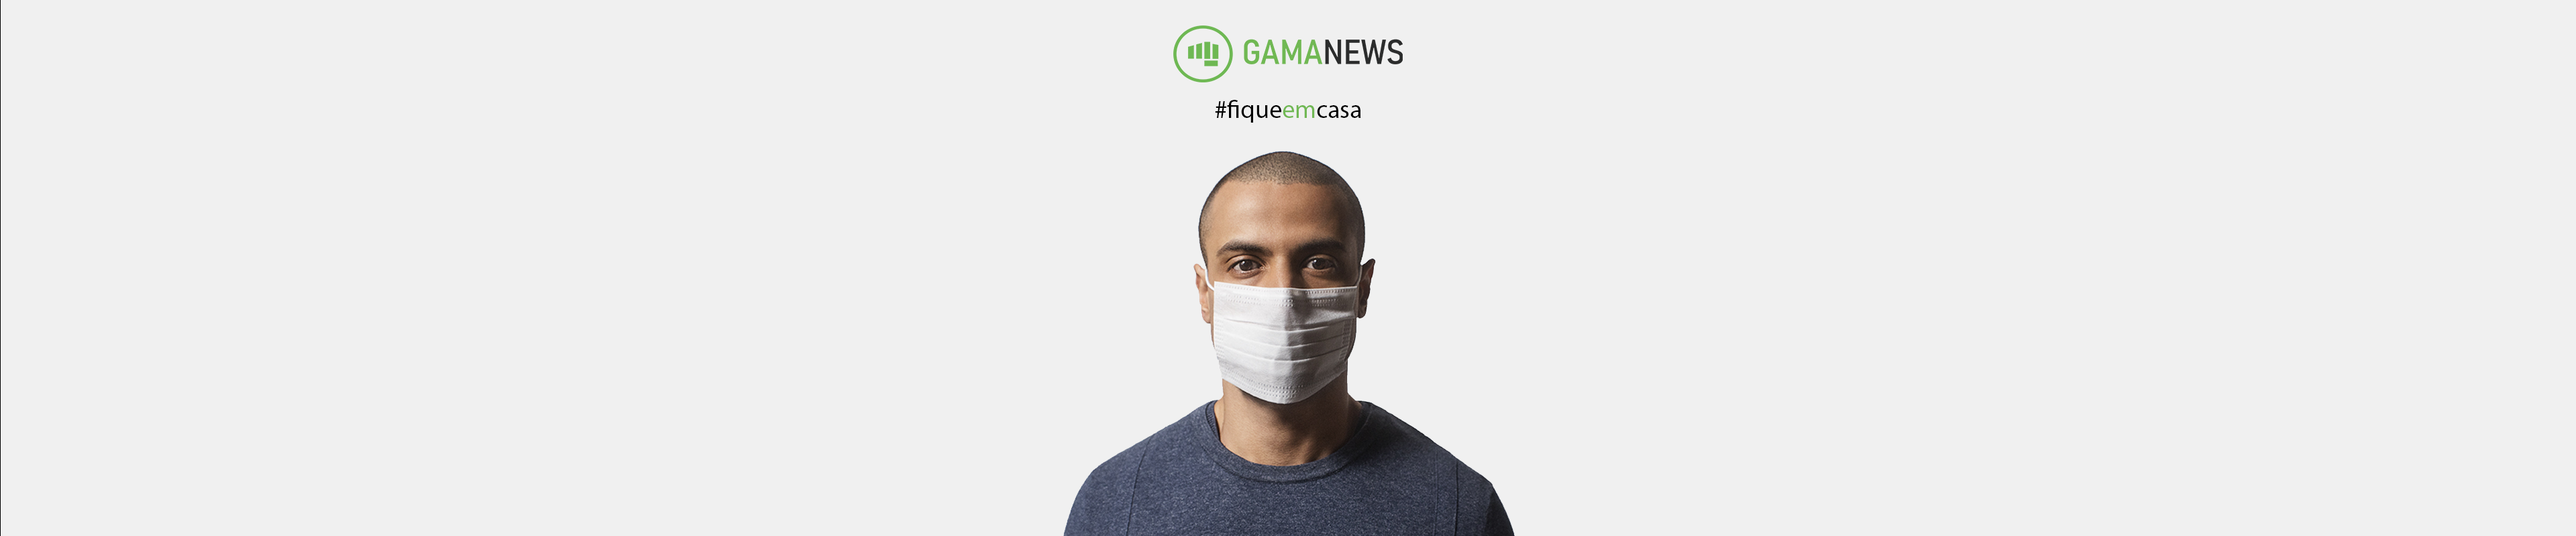
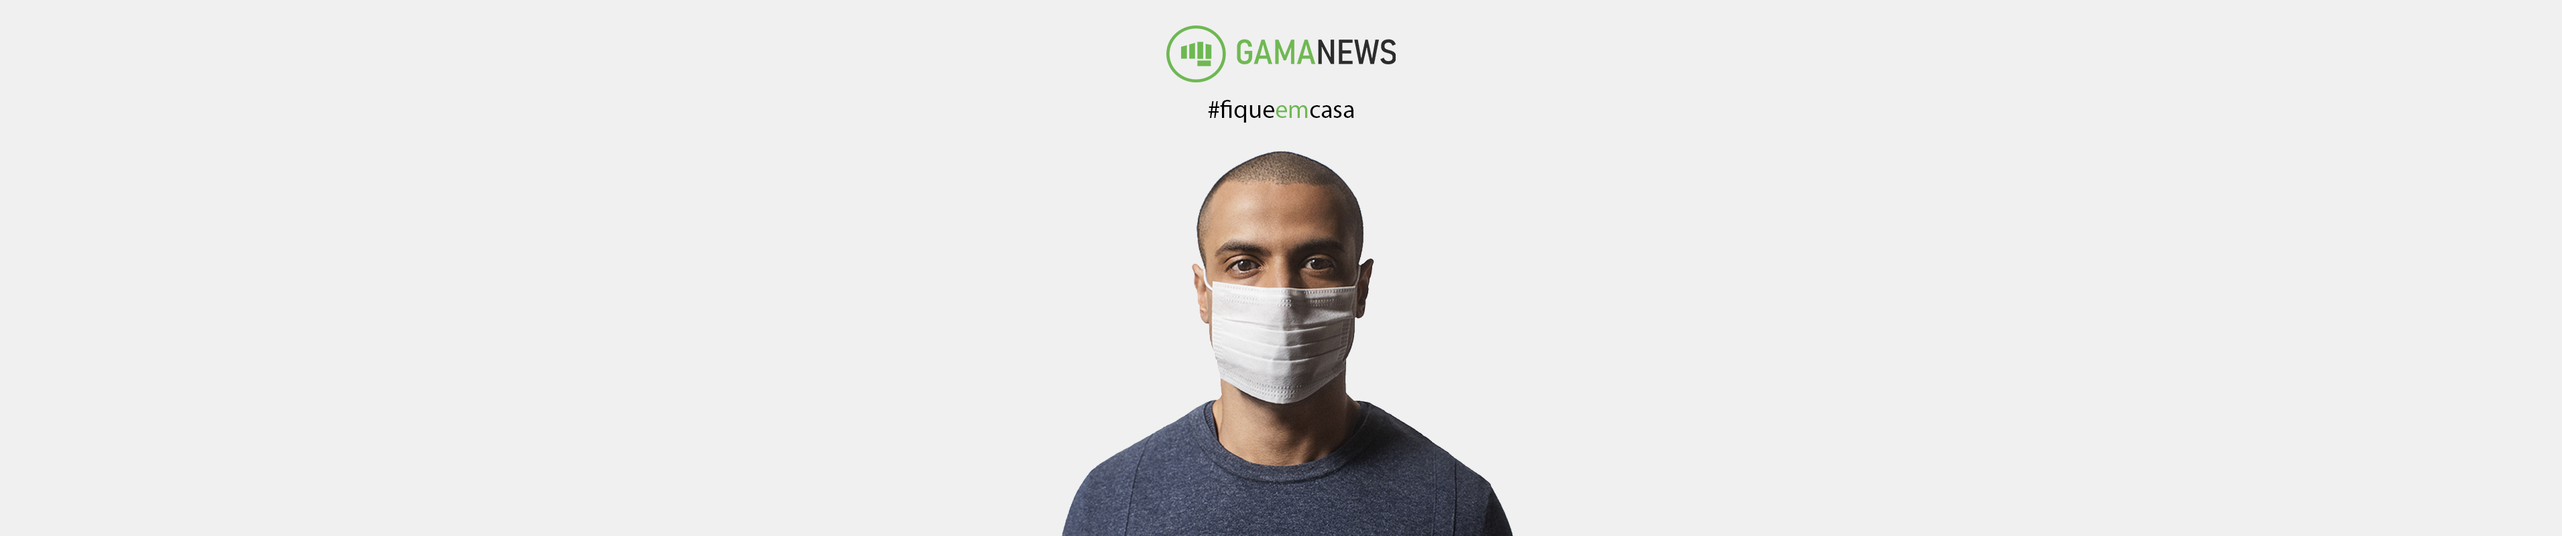
reestruturacao do site v0.9

diff --git a/assets/css/style.css b/assets/css/style.css
@@ -360,24 +360,140 @@ body {
     overflow-x: hidden;
 }
 
+body .container-main {
+    position: relative;
+    z-index: 1;
+    min-height: calc(100vh-90px);
+}
+
+.content {
+    padding-top: 90px;
+}
+
+.content {
+    min-height: calc(100vh-90px);
+}
+
 .container-main {
+    min-height: 100%;
+    width: 100%;
+}
+
+main {
+    display: block;
+}
+
+.text-black {
+    color: #1d1d1d;
+}
+
+.left-0 {
+    left: 0;
+}
+
+.top-0 {
+    top: 0;
+}
+
+.relative {
+    position: relative;
+}
+
+.bg-gama-black {
+    background-color: #1d1d1d;
+}
+
+.heroCarousel {
+    display: block;
+    width: 100%;
+    object-fit: cover;
+    left: 0;
+}
+
+.w-full {
+    width: 100%;
+}
+
+.heroCarouselElement {
+    height: calc(100vh - 90px);
+}
+
+.heroCarouselElement picture {
     display: flex;
     justify-content: center;
-    align-items: center;
-    margin-top: 90px;
+    height: inherit;
+    z-index: 5;
+    object-fit: cover;
+}
+
+.w-screen {
+    width: 100vw;
+}
+
+.absolute {
+    position: absolute;
+}
+
+.overflow-hidden {
+    overflow: hidden;
+}
+
+.py-16 {
+    padding-top: 4rem;
+    padding-bottom: 4rem;
+}
+
+.mx-auto {
+    margin-left: auto;
+    margin-right: auto;
+}
+
+@media screen and (min-width: 888px) {
+    .blogCardsContainer {
+        width: 960px;
+    }
+}
+
+@media screen and (min-width: 768px) {
+    .blogCardsContainer {
+        width: 640px;
+    }
+}
+
+.blogCardsContainer {
+    width: 320px;
+    transition: .8s ease-in-out;
+}
+
+body.dark h2 {
+    font-family: 'Roboto Slab';
+    font-size: 2.25rem;
+    color: white;
+    text-align: center;
+    margin-bottom: 1rem;
+    font-weight: 700;
+}
+
+h2 {
+    font-family: 'Roboto Slab';
+    font-size: 2.25rem;
+    color: #33383c;
+    text-align: center;
+    margin-bottom: 1rem;
+    font-weight: 700;
+}
+
+.blogDeNoticias {
+    display: block;
     width: 100%;
-    height: 100%;
+    object-fit: cover;
+    left: 0;   
 }
 
-.bg-principal {
-    display: -ms-flexbox;
+.blogDeNoticias picture {
     display: flex;
-    background: gray;
-}
-
-.bg-principal img {
-    display: -ms-flexbox;
-    display: flex;
-    min-height: 100%;
-    background-size: cover;
+    justify-content: center;
+    height: inherit;
+    z-index: 5;
+    object-fit: cover;
 }

diff --git a/index.html b/index.html
@@ -84,11 +84,28 @@
             </article>
         </section>
     </header>
-    <main class="container-main">
-        <div class="bg-principal">
-            <img src="/assets/img/capa.png" alt="#">
-        </div>
-        
+    <main class="content container-main">
+        <section class="homeHero top-0 left-0 relative text-black bg-gama-black">
+            <section class="heroCarousel">
+                <article class="heroCarouselElement relative w-full heroShow">
+                    <picture class="w-screen top-0 left-0 absolute overflow-hidden">
+                        <img class="object-cover w-inherit h-inherit lazyloaded" loading="lazy" src="/assets/img/capa.png" alt="Imagem da Gama News - #stayhome">
+                    </picture>
+                </article>
+            </section>
+        </section>
+        <section class="blogCardsContainer home mx-auto w-full py-16">
+            <h2>
+                Notícias
+            </h2>
+        </section>
+        <section class="blogDeNoticias">
+            <article>
+                <picture>
+                    <img src="/assets/img/todospelasaudeitau.png" alt="">
+                </picture>
+            </article>
+        </section>
     </main>
     <script src="/assets/js/btnMenu.js"></script>
     <script src="/assets/js/toggleContrast.js"></script>
